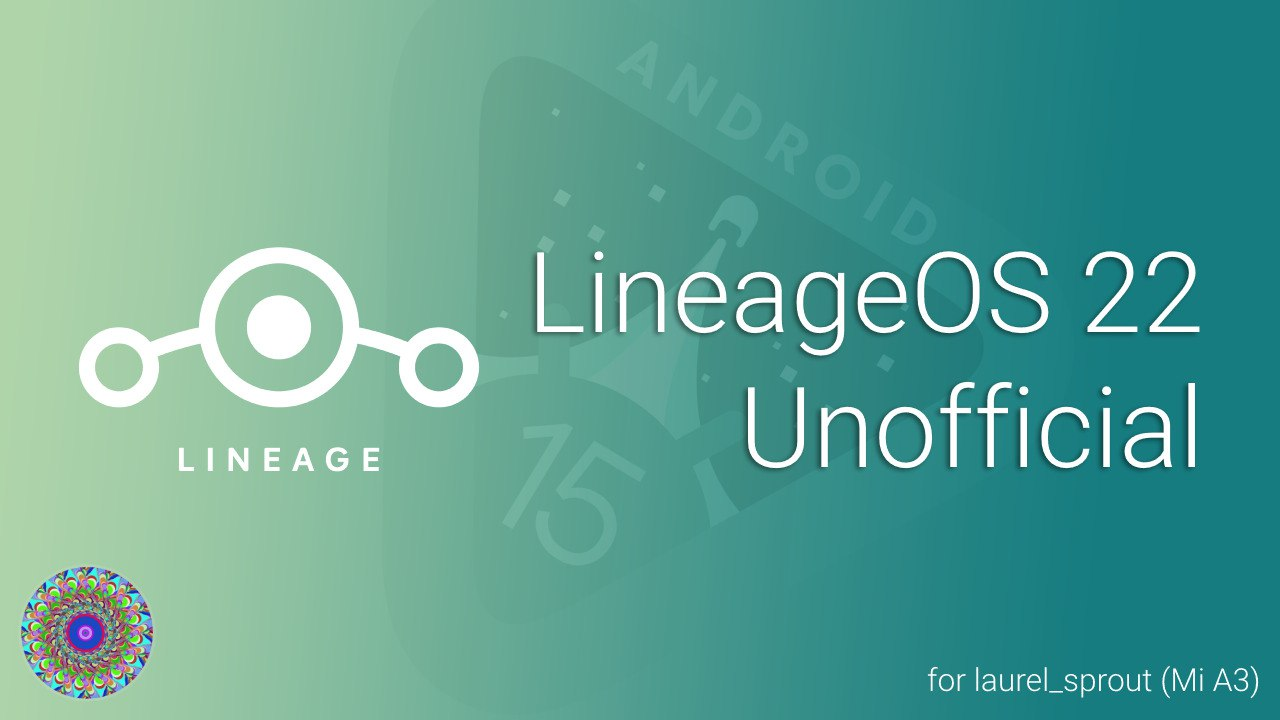
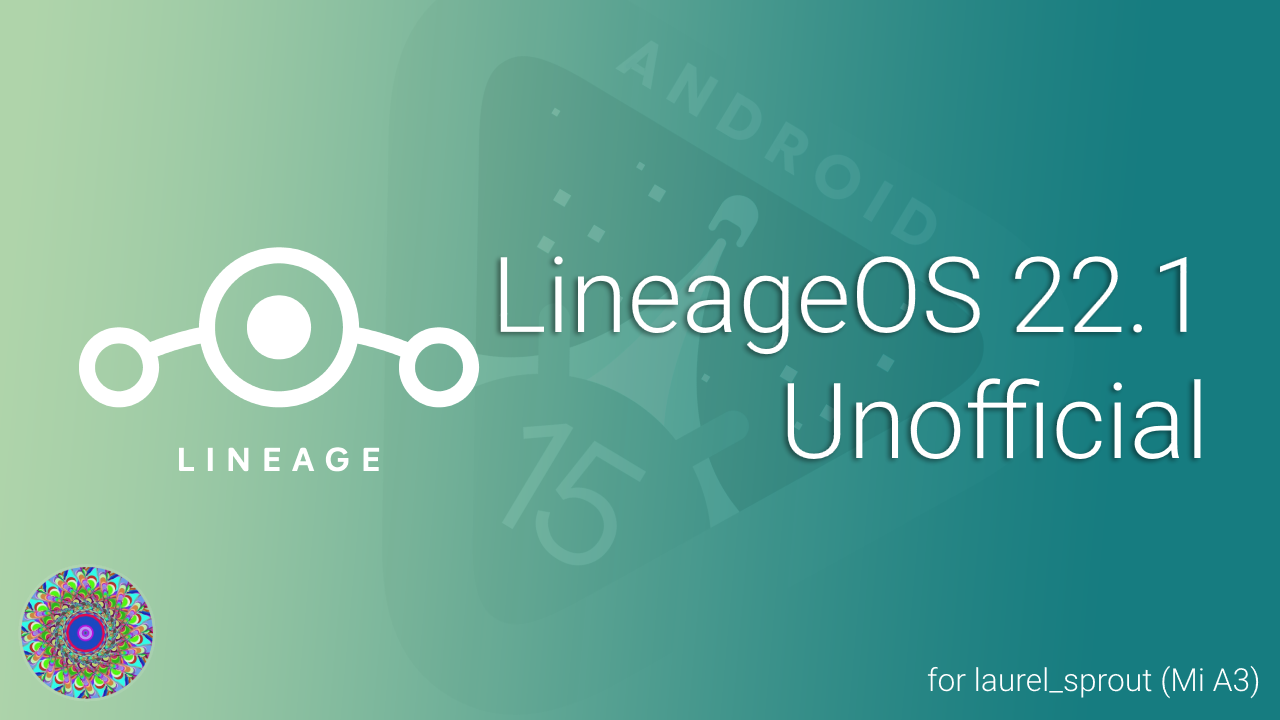
roms: LineageOS 22.1 release

diff --git a/blogs/news.md b/blogs/news.md
@@ -1,6 +1,7 @@
 # News - Updates, releases, and more.
 
 ## Posts
+- [12-01-2025 - LineageOS 22.1 released with major changes.](/blog/news#12-01-2025---lineageos-22.1-released-with-major-changes.)
 - [20-12-2024 - crDroid gets revived by leoxvis.](/blog/news#20-12-2024---crdroid-gets-revived-by-leoxvis.)
 - [06-12-2024 - A new LineageOS 22 update released!](/blog/news#06-12-2024---a-new-lineageos-22-update-released!)
 - [26-11-2024 - [IMPORTANT, MUST READ] MAJOR ISSUES WITH HOSTING. Reviews feature temporarily removed.](/blog/news#26-11-2024---[important,-must-read]-major-issues-with-hosting.-reviews-feature-temporarily-removed.)
@@ -72,6 +73,9 @@
 - [03-02-2024 - LineageOS 21 Released, EvolutionX 13 Discontinued.](/blog/news#03-02-2024---lineageos-21-released,-evolutionx-13-discontinued.)
 
 ---
+
+## 12-01-2025 - LineageOS 22.1 released with major changes.
+The first update of 2025 and the first Android 15 QPR1 custom rom for laurel. Includes major under the hood changes and other smaller bugfixes. Check it out [here](/roms/LineageOS_15).
 
 ## 20-12-2024 - crDroid gets revived by leoxvis.
 crDroid 11 gets OFFICIALLY revived by leoxvis! This release (11) is based on Android version 15. Check it out by clicking [here](/roms/crDroid_15).
